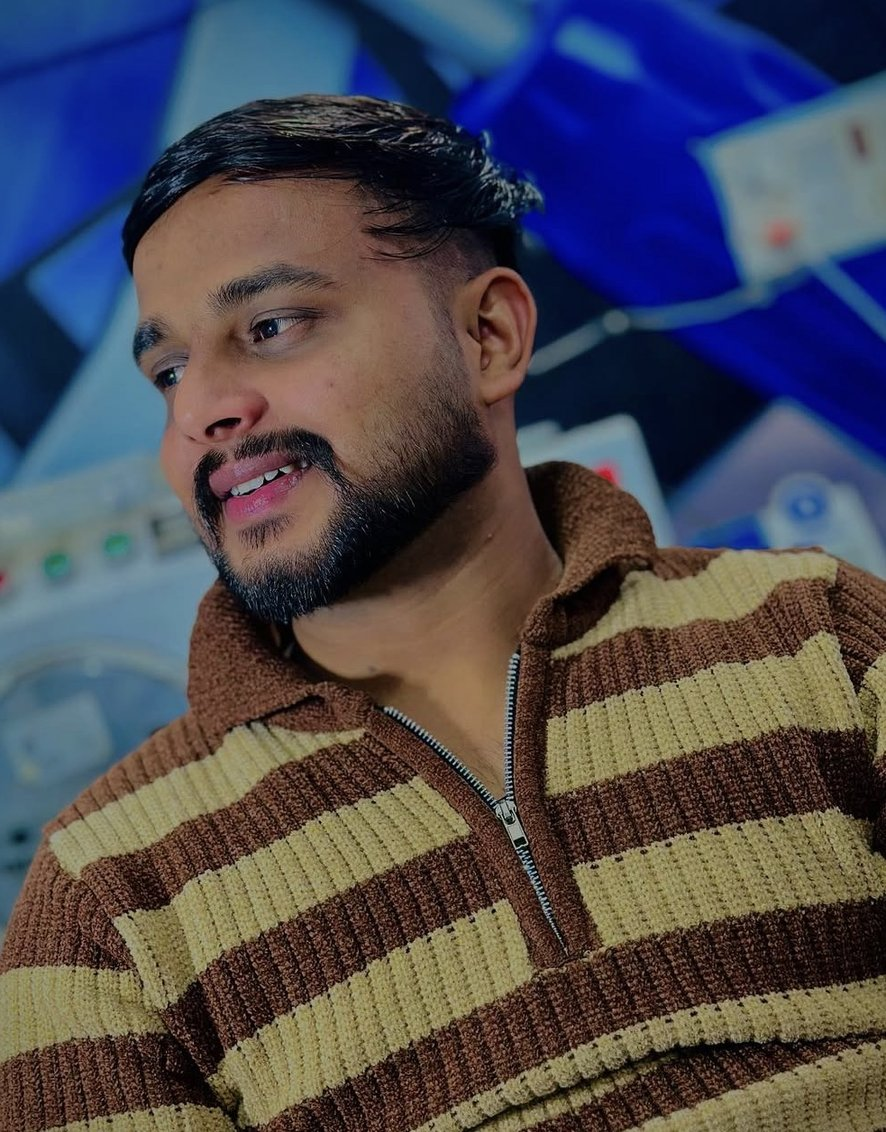
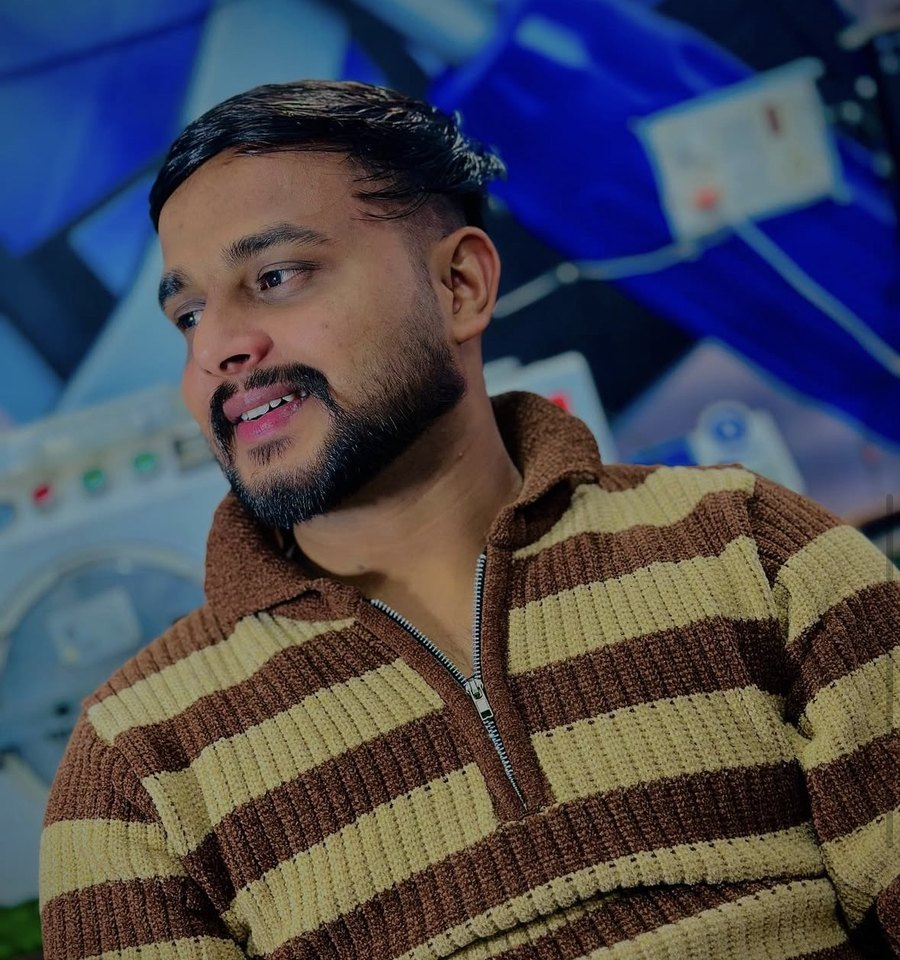
Kamal: show full photo, add motherboard specialty
Claude-Session: https://claude.ai/code/session_017286fPMeye8gC2czy7DiRJ

diff --git a/index.html b/index.html
@@ -556,7 +556,7 @@ footer{padding:36px 0 18px}
     </div>
     <div class="aboutme glass" style="margin-top:22px">
       <div class="who-photo">
-        <img src="kamal.jpeg" alt="Kamal Saini - iPhone &amp; Android Repair Technician, Safidon" width="600" height="767" loading="lazy">
+        <img src="kamal.jpeg" alt="Kamal Saini - iPhone &amp; Android Repair Technician, Safidon" width="900" height="960" loading="lazy" style="aspect-ratio:auto;object-fit:contain">
         <h3 data-en="Kamal Saini" data-hi="कमल सैनी" data-pa="ਕਮਲ ਸੈਣੀ">Kamal Saini</h3>
         <p data-en="5+ Years Experience" data-hi="5+ साल का अनुभव" data-pa="5+ ਸਾਲ ਦਾ ਤਜਰਬਾ">5+ Years Experience</p>
       </div>
@@ -565,6 +565,7 @@ footer{padding:36px 0 18px}
         <p class="lede" data-en="Kamal Saini is our skilled mobile repair technician with 5+ years of hands-on experience, specially in iPhone and Android repair." data-hi="कमल सैनी हमारे कुशल मोबाइल रिपेयर टेक्नीशियन हैं, जिन्हें 5+ साल का अनुभव है, खासकर iPhone और Android रिपेयर में।" data-pa="ਕਮਲ ਸੈਣੀ ਸਾਡੇ ਮਾਹਿਰ ਮੋਬਾਈਲ ਰਿਪੇਅਰ ਟੈਕਨੀਸ਼ੀਅਨ ਹਨ, ਜਿਨ੍ਹਾਂ ਕੋਲ 5+ ਸਾਲ ਦਾ ਤਜਰਬਾ ਹੈ, ਖ਼ਾਸ ਕਰਕੇ iPhone ਅਤੇ Android ਰਿਪੇਅਰ ਵਿੱਚ।">Kamal Saini is our skilled mobile repair technician with 5+ years of hands-on experience, specially in iPhone and Android repair.</p>
         <h4 data-en="Specialist In" data-hi="विशेषज्ञता" data-pa="ਮੁਹਾਰਤ">Specialist In</h4>
         <ul class="certs">
+          <li data-en="Motherboard Repair — Dead Phone, IC &amp; Chip-Level" data-hi="मदरबोर्ड रिपेयर — डेड फोन, IC और चिप-लेवल" data-pa="ਮਦਰਬੋਰਡ ਰਿਪੇਅਰ — ਡੈੱਡ ਫ਼ੋਨ, IC ਅਤੇ ਚਿੱਪ-ਲੈਵਲ">Motherboard Repair — Dead Phone, IC &amp; Chip-Level</li>
           <li data-en="iPhone Repair — Screen, Battery, Charging, Camera" data-hi="iPhone रिपेयर — स्क्रीन, बैटरी, चार्जिंग, कैमरा" data-pa="iPhone ਰਿਪੇਅਰ — ਸਕਰੀਨ, ਬੈਟਰੀ, ਚਾਰਜਿੰਗ, ਕੈਮਰਾ">iPhone Repair — Screen, Battery, Charging, Camera</li>
           <li data-en="Android Repair — Display, Battery, Software &amp; Hardware" data-hi="Android रिपेयर — डिस्प्ले, बैटरी, सॉफ्टवेयर और हार्डवेयर" data-pa="Android ਰਿਪੇਅਰ — ਡਿਸਪਲੇ, ਬੈਟਰੀ, ਸਾਫਟਵੇਅਰ ਅਤੇ ਹਾਰਡਵੇਅਰ">Android Repair — Display, Battery, Software &amp; Hardware</li>
         </ul>
